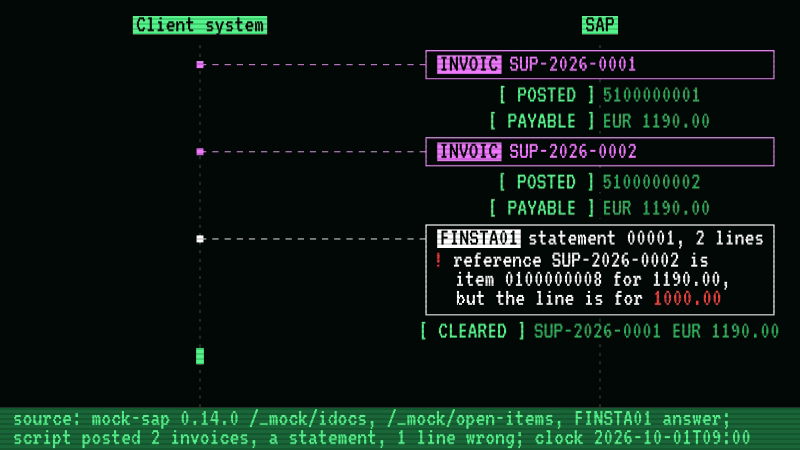
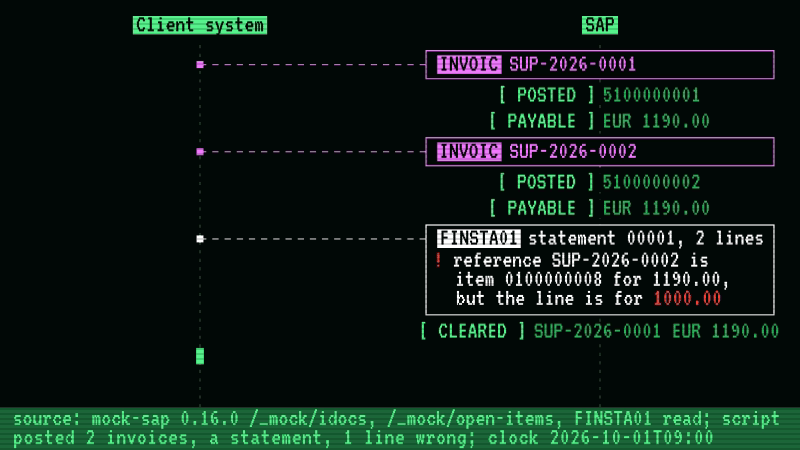
Sync films to mock-films c188501: mock-sap 0.16.0 re-cuts
sap_bapi, sap_invoices, sap_statement and p2p_film are re-captured
against mock-sap 0.16.0, with new stills. Lengths, alts and captions
are unchanged; only the source line differs on screen. p2p_film is
now drawn from the same versions the post was checked against, so
the post no longer notes the difference.

Claude-Session: https://claude.ai/code/session_015RDTBgG3oYVSZTAaz1gNwq

Changed region(s): [[0.0, 0.9022, 0.9688, 0.9956], [0.25, 0.9022, 0.2812, 0.9333]]

diff --git a/_posts/2026-10-02-one-purchase-across-three-mocks.md b/_posts/2026-10-02-one-purchase-across-three-mocks.md
@@ -85,6 +85,6 @@ python3 -m unittest -v mockbank.examples.test_procure_to_pay
 
 Ten tests, among them the loop end to end, the duplicate paid without the check and refused with it, a price disagreement blocked before any money moves, a short shipment paid for what shipped, and a payment the bank rejects leaving the invoice owed. The code is [procure_to_pay.py](https://github.com/rseufert/mock-bank/blob/main/examples/procure_to_pay.py), and the tests are [beside it](https://github.com/rseufert/mock-bank/blob/main/examples/test_procure_to_pay.py).
 
-*Checked on 4 October 2026 against mock-sap 0.16.0, mock-edi 0.7.0 and mock-bank 0.7.0. The film was drawn from mock-sap 0.14.0.*
+*Checked on 4 October 2026 against mock-sap 0.16.0, mock-edi 0.7.0 and mock-bank 0.7.0.*
 
 <script src="/js/films.js" defer></script>
